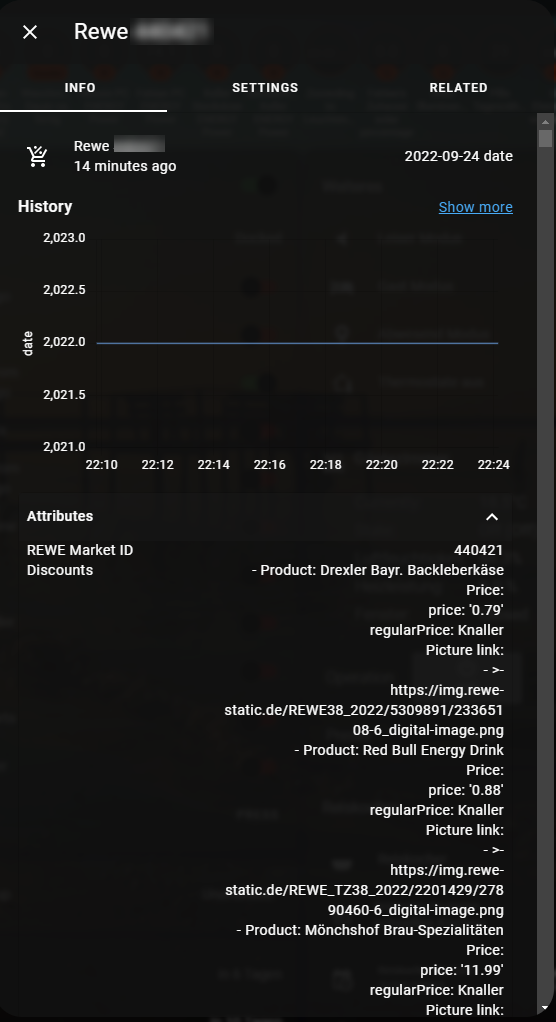
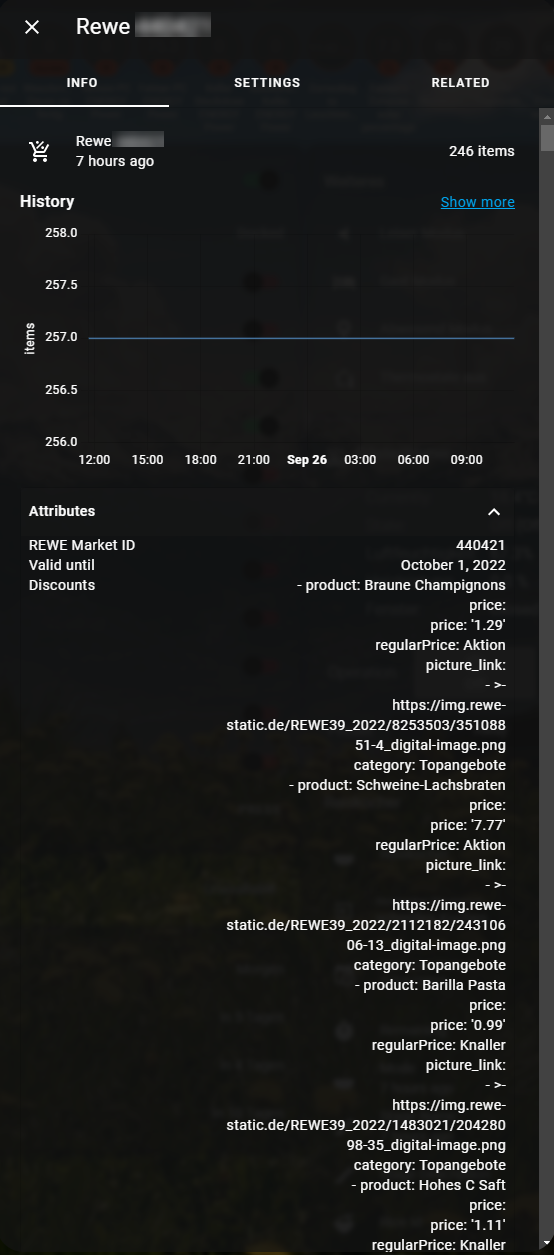
readme improvements

diff --git a/README.md b/README.md
@@ -12,11 +12,12 @@ This integration provides the following informations with a refresh interval of 
 
 Sensors:
 
-- sensor.marketid: Valid until Discount Date
+- sensor.marketid: Amount of currently valid offers
 
 Sensor Attributes:
 
 - market_id: Your rewe market id
+- valid until: Valid until Discount Date
 - discounts: Discounts currently valid
     - attribute product name
     - attribuite discount price
